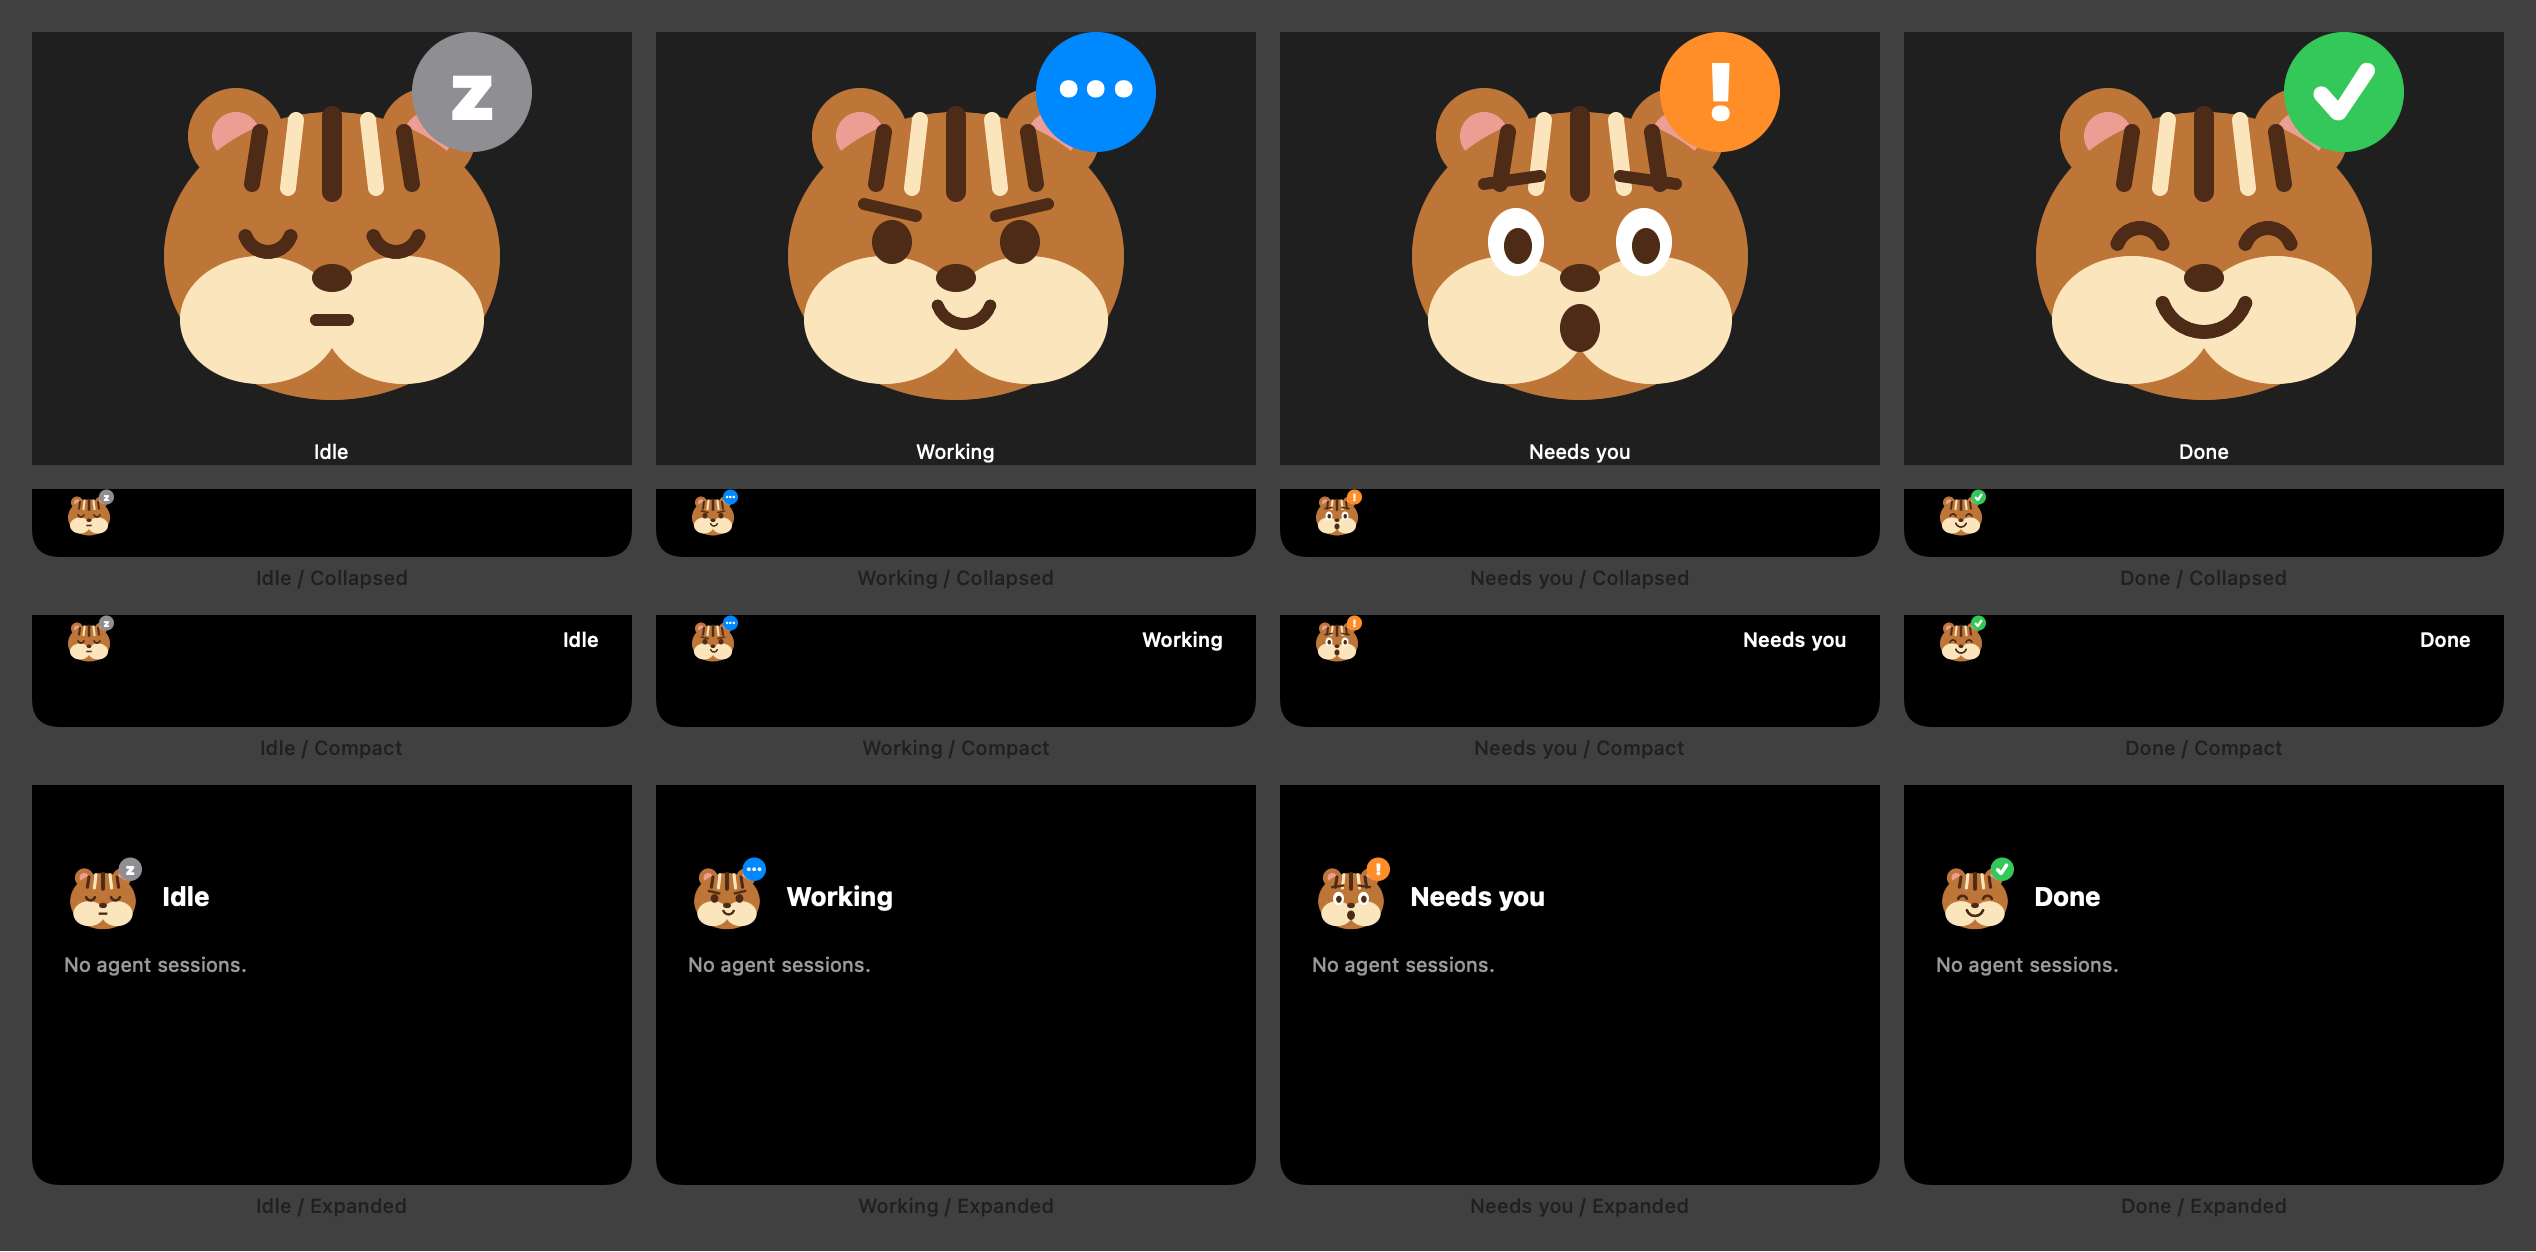
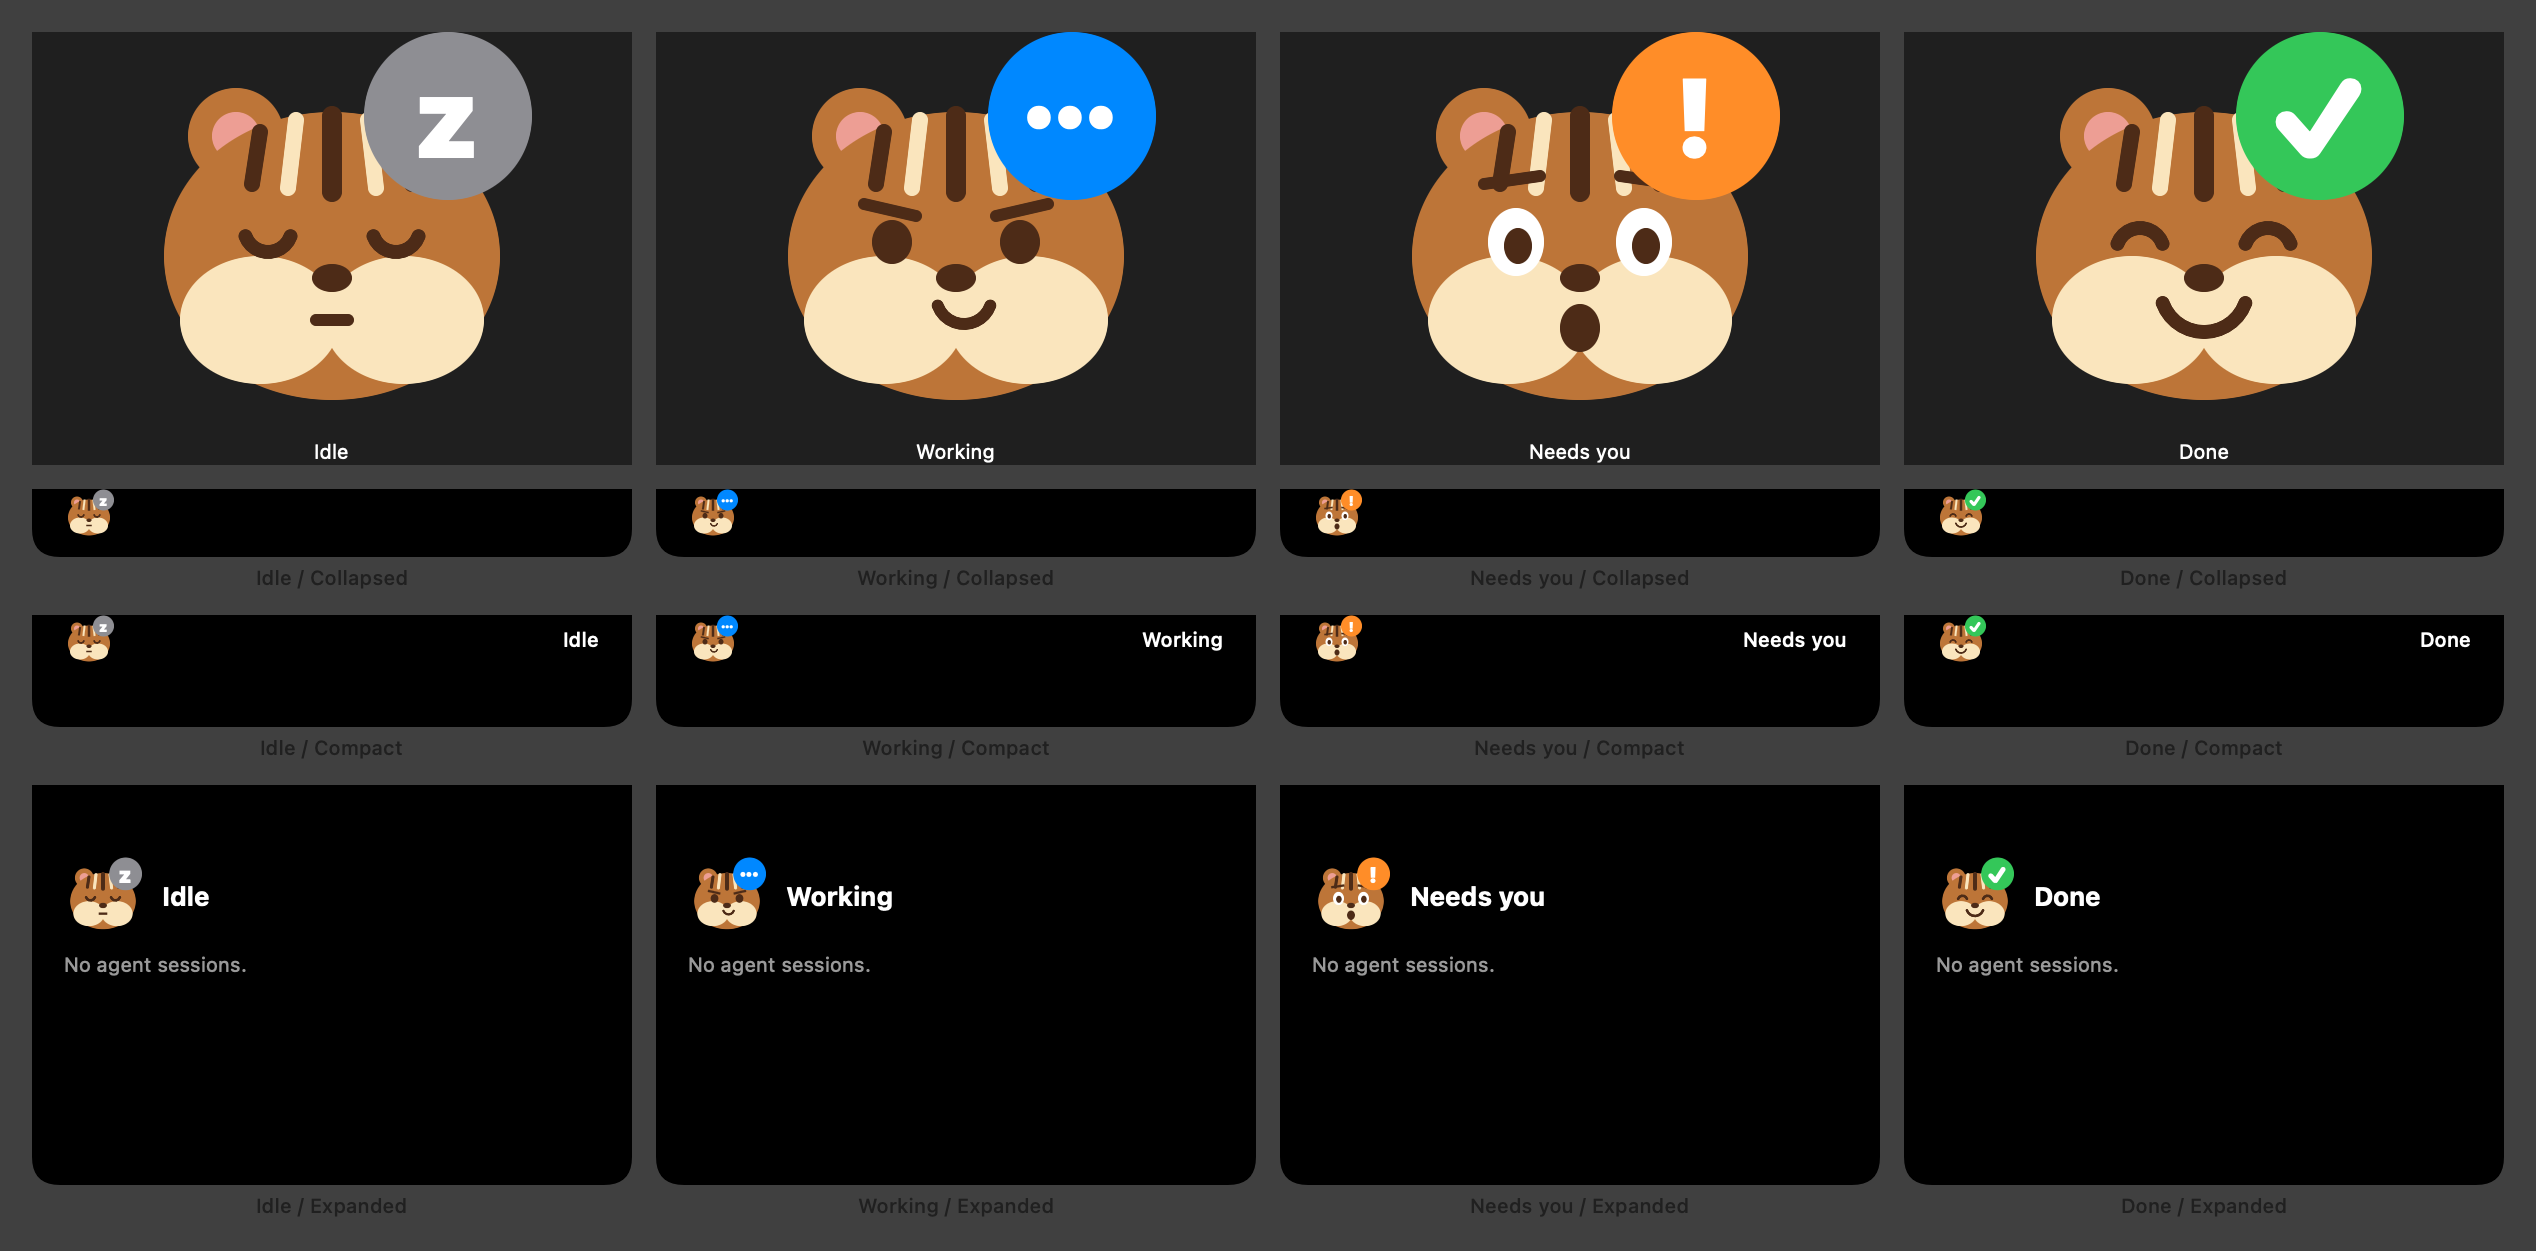
Fix v1 review follow-ups: re-dock on screen change, click-through without notch, MainActor, bigger badge

diff --git a/Sources/Chippy/Chipmunk.swift b/Sources/Chippy/Chipmunk.swift
@@ -64,16 +64,16 @@ struct ChipmunkView: View {
             }
 
             // state badge, top-right
-            let badge: (String, Color)
+            let badge: (String, Color, CGFloat)
             switch state {
-            case .idle: badge = ("z", .gray)
-            case .working: badge = ("···", .blue)
-            case .needsYou: badge = ("!", .orange)
-            case .done: badge = ("✓", .green)
+            case .idle: badge = ("z", .gray, 15)
+            case .working: badge = ("···", .blue, 13)
+            case .needsYou: badge = ("!", .orange, 15)
+            case .done: badge = ("✓", .green, 15)
             }
-            ctx.fill(Path(ellipseIn: CGRect(x: 70, y: 0, width: 30, height: 30)), with: .color(badge.1))
-            ctx.draw(Text(badge.0).font(.system(size: 20, weight: .black)).foregroundColor(.white),
-                     at: CGPoint(x: 85, y: badge.0 == "···" ? 13 : 15))
+            ctx.fill(Path(ellipseIn: CGRect(x: 58, y: 0, width: 42, height: 42)), with: .color(badge.1))
+            ctx.draw(Text(badge.0).font(.system(size: 28, weight: .black)).foregroundColor(.white),
+                     at: CGPoint(x: 79, y: badge.2 + 6))
         }
         .aspectRatio(1, contentMode: .fit)
     }

diff --git a/Sources/Chippy/NotchPanel.swift b/Sources/Chippy/NotchPanel.swift
@@ -22,6 +22,11 @@ final class NotchPanel: NSPanel {
         contentView = NSHostingView(rootView: NotchView(model: model))
         model.$density.receive(on: RunLoop.main).sink { [weak self] d in self?.dock(d) }.store(in: &bag)
         dock(model.density)
+        NotificationCenter.default.publisher(for: NSApplication.didChangeScreenParametersNotification)
+            .receive(on: RunLoop.main).sink { [weak self] _ in
+                guard let self else { return }
+                self.dock(self.model.density)
+            }.store(in: &bag)
     }
 
     override var canBecomeKey: Bool { true }
@@ -39,6 +44,9 @@ final class NotchPanel: NSPanel {
         let left = screen.auxiliaryTopLeftArea?.width ?? 0
         let right = screen.auxiliaryTopRightArea?.width ?? 0
         let notch = (left > 0 && right > 0) ? screen.frame.width - left - right : 160
+        let hasNotch = screen.safeAreaInsets.top > 0
+        // No notch: a collapsed panel would sit over the menu bar, so let clicks through.
+        ignoresMouseEvents = (density == .collapsed && !hasNotch)
         let size = Self.size(for: density, notchWidth: notch)
         let f = screen.frame
         setFrame(CGRect(x: f.midX - size.width / 2, y: f.maxY - size.height,

diff --git a/Sources/Chippy/main.swift b/Sources/Chippy/main.swift
@@ -6,8 +6,10 @@ if let i = args.firstIndex(of: "--render-gallery"), i + 1 < args.count {
     exit(0)
 }
 
-let app = NSApplication.shared
-let delegate = AppDelegate()
-app.delegate = delegate
-app.setActivationPolicy(.accessory) // no Dock icon
-app.run()
+MainActor.assumeIsolated {
+    let app = NSApplication.shared
+    let delegate = AppDelegate()
+    app.delegate = delegate
+    app.setActivationPolicy(.accessory) // no Dock icon
+    app.run()
+}

diff --git a/Sources/Chippy/AppDelegate.swift b/Sources/Chippy/AppDelegate.swift
@@ -1,6 +1,7 @@
 import AppKit
 import ChippyCore
 
+@MainActor
 final class AppDelegate: NSObject, NSApplicationDelegate {
     let model = NotchModel()
     private var panel: NotchPanel?
